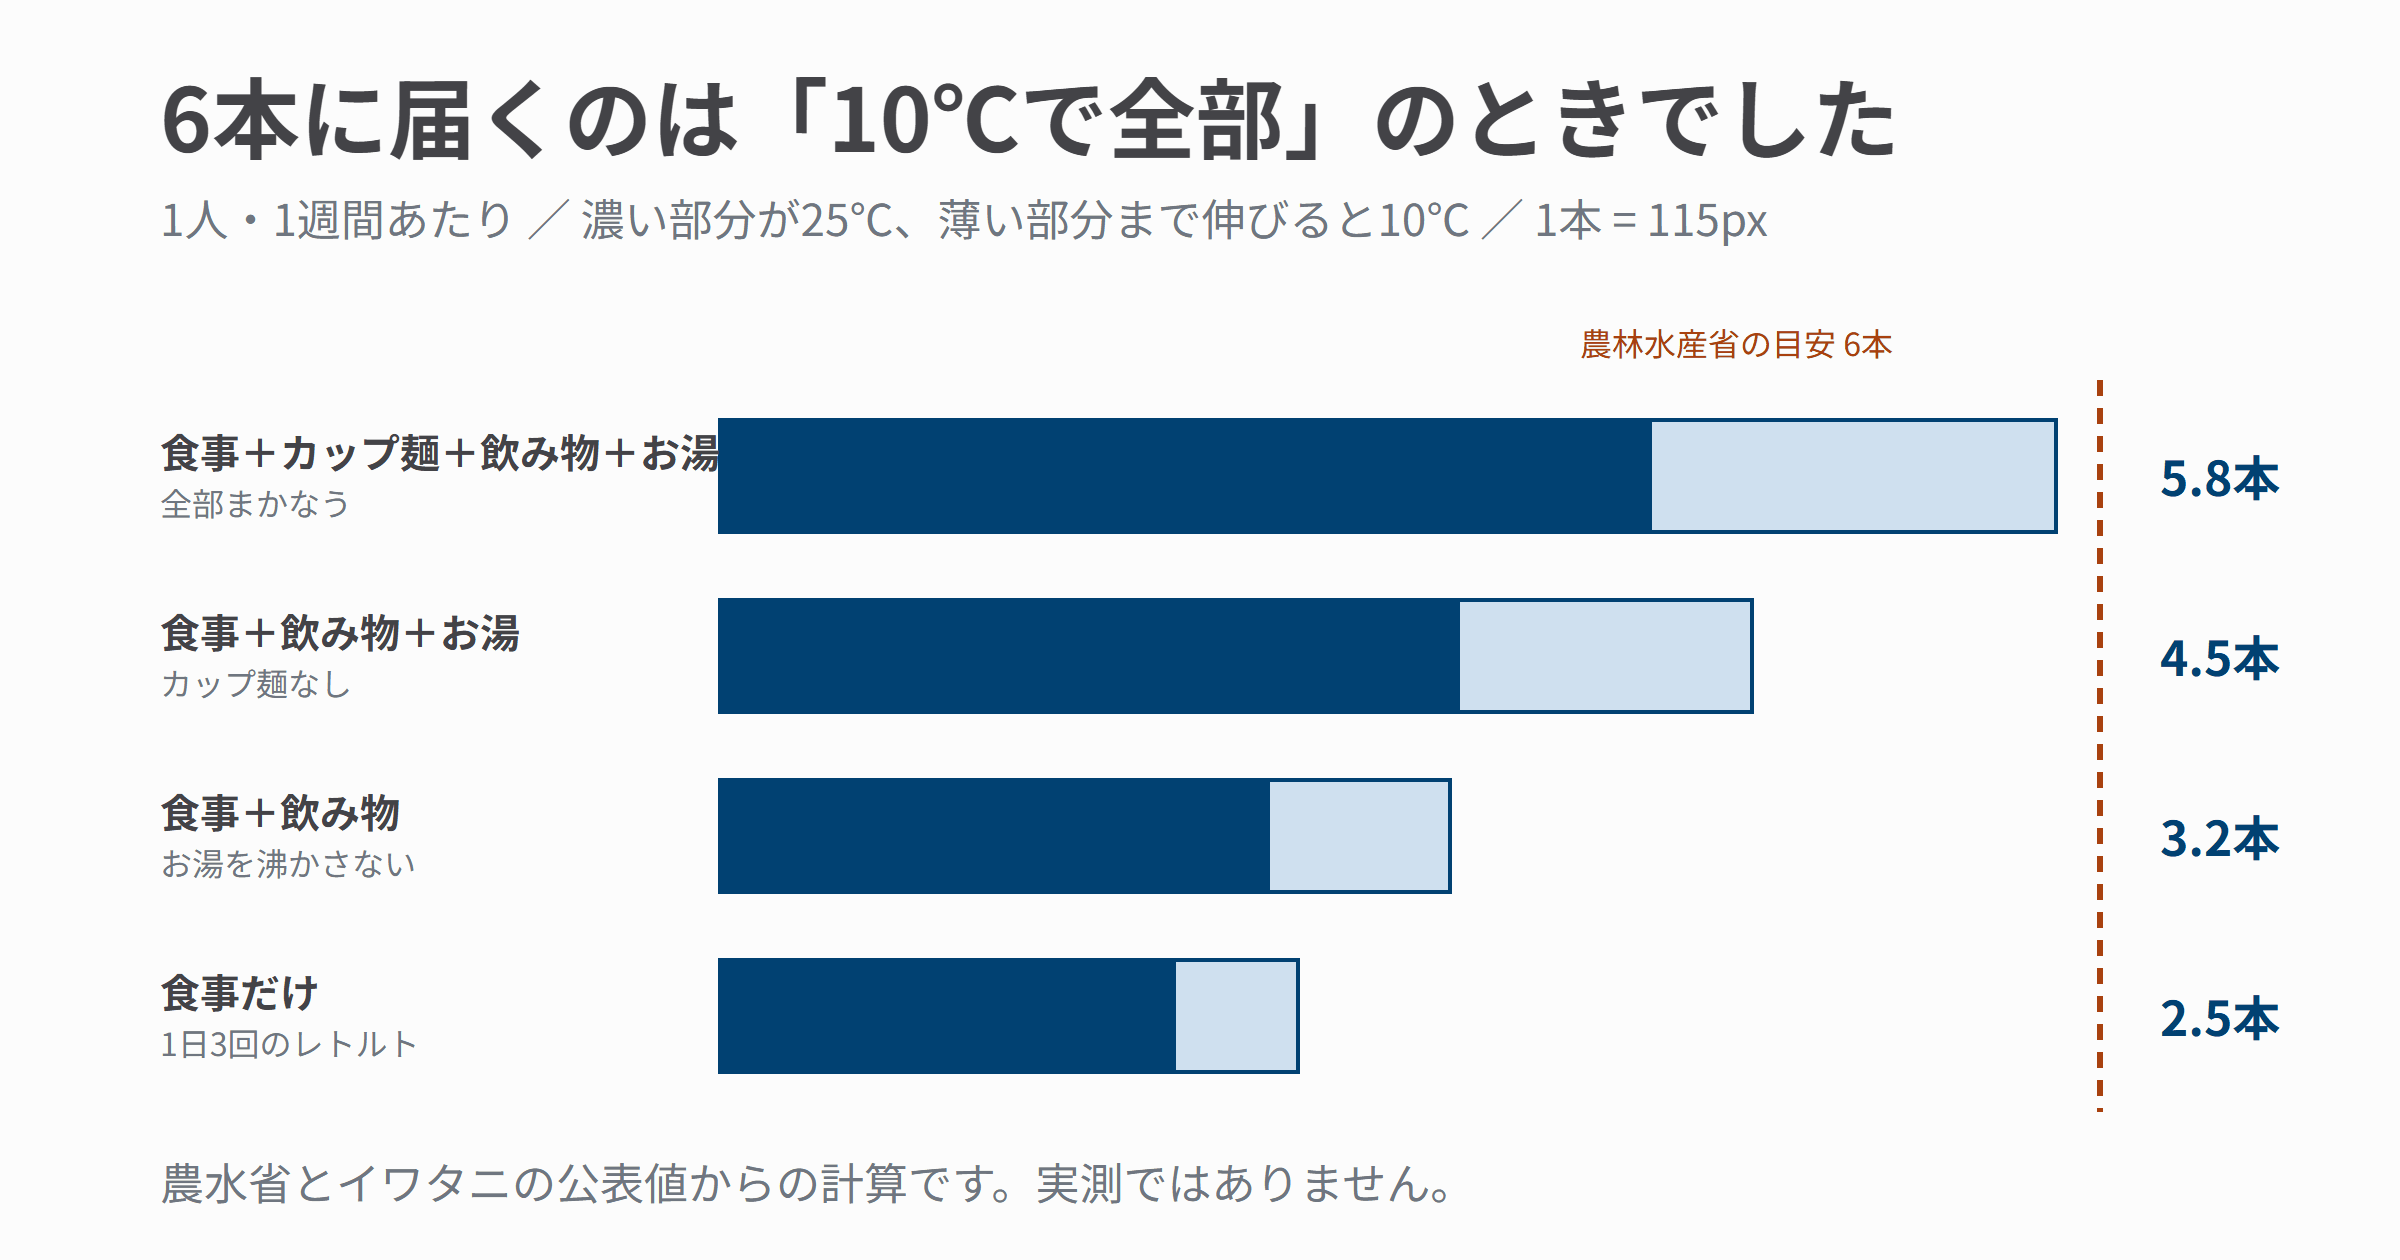
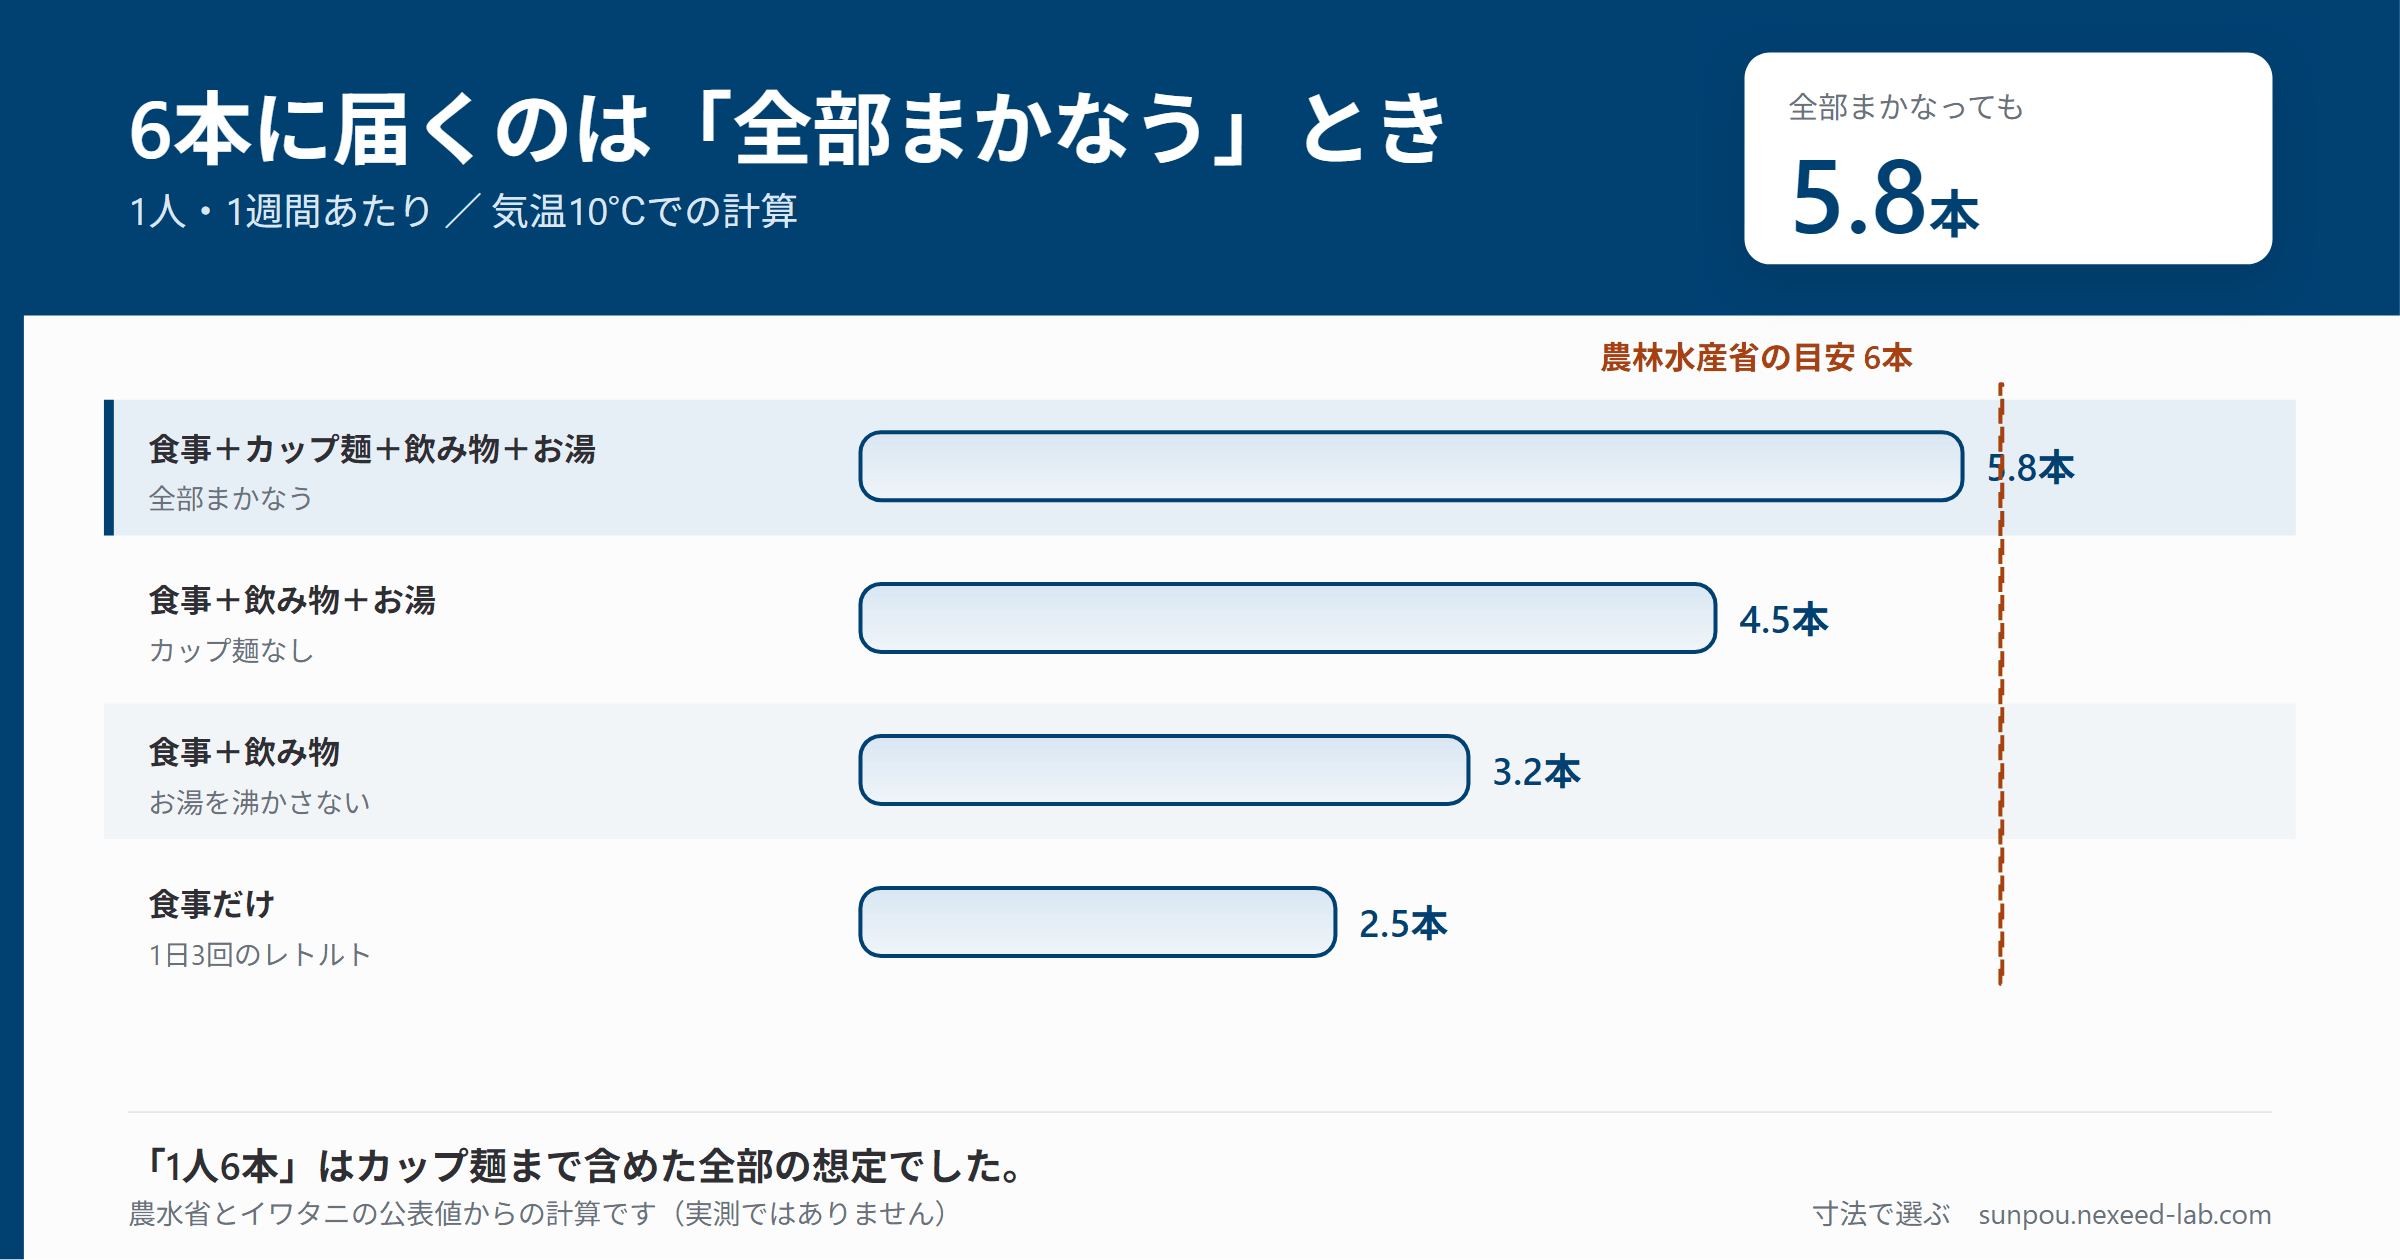
図版のパワポ移行：カセットコンロ4枚を追加（31枚中14枚）
konro-erabikata で軸を30cmから描いていたのを0からに直した。
途中で軸を切ると差が誇張される。このサイトは数字の扱いが売りなので、
見栄えより実寸を優先する。

diff --git a/tools/figures/figures.py b/tools/figures/figures.py
@@ -279,6 +279,98 @@ def coolerbox_daiwa_shimano_eyecatch(f):
     f.footer("名前が違うだけで、中身は同じ物差しです。",
              "両社の公表資料で確認しました（実測ではありません）")
 
+# ---------------------------------------------------------------- カセットコンロ
+
+def konro_erabikata_eyecatch(f):
+    """「9号まで」を名乗っても本体幅は32.8〜39.1cm。土鍋との差が機種で違う。"""
+    f.header("同じ「9号まで」でも幅が違う",
+             "横棒は本体幅。破線は9号土鍋でいちばん幅のある墨貫入（32.5cm）",
+             key="6.6", key_label="土鍋との差は最大", key_unit="cm")
+
+    data = [("スリム", 32.8), ("スマート／ウィンドシールド", 33.4),
+            ("達人スリムV／達人スリムβ", 33.5), ("BO", 33.7),
+            ("アモルフォプレミアム", 35.5), ("雅SLIM", 35.85), ("極", 39.1)]
+    # ⚠ **0 から描く。** 途中で軸を切ると差が誇張される（このサイトは数字の扱いが売り）
+    x0, sc, top, rh = 330, 17.2, 176, 50
+    ys = f.rows(len(data), top=top, rh=rh, highlight=len(data) - 1)
+    nabe = x0 + 32.5 * sc
+    for (name, w), y in zip(data, ys):
+        f.bar(x0, y + 8, w * sc, 26, PALE2, PALE, NAVY, 2, radius=0.30)
+        f.text(74, y + 8, 250, 26, name, 15, INK, bold=True)
+        f.text(x0 + w * sc + 12, y + 8, 110, 26, f"{w}cm", 16, NAVY, bold=True)
+    f.ghost(nabe, top - 6, 1, len(data) * rh - 6, WARN)
+    f.text(nabe - 130, top + len(data) * rh - 2, 260, 24, "9号土鍋 32.5cm", 15, WARN, bold=True)
+
+    f.footer("「9号まで」は号数の目安で、寸法ではありません。")
+
+
+def konro_jikan_eyecatch(f):
+    """ボンベ1本の連続燃焼時間は55〜78分。割り算では出ない。"""
+    f.header("ボンベ1本は55〜78分",
+             "濃い部分が「250g ÷ ガス消費量」。薄い部分まで伸びると公表の連続燃焼時間",
+             key="78", key_label="いちばん長くて", key_unit="分")
+
+    data = [("BO", "286g/h ／ ＋3分", 55), ("スマート／ウィンドシールド", "254g/h ／ ＋19分", 78),
+            ("達人スリムV", "245g/h ／ ＋7分", 68), ("スリム ほか2機種", "236g/h ／ ＋6分", 70),
+            ("エコプレミアムIII", "210g/h ／ ＋1分", 72), ("ミニ", "135g/h ／ ＋1分", 112)]
+    x0, sc, top, rh = 420, 5.6, 176, 58
+    hot = max(range(len(data)), key=lambda i: data[i][2])
+    ys = f.rows(len(data), top=top, rh=rh, highlight=hot)
+    for (name, spec, mins), y in zip(data, ys):
+        f.bar(x0, y + 10, mins * sc, 28, PALE2, PALE, NAVY, 2, radius=0.30)
+        f.text(74, y + 4, 330, 24, name, 16, INK, bold=True)
+        f.text(74, y + 28, 330, 22, spec, 14, MUTE)
+        f.text(x0 + mins * sc + 12, y + 10, 100, 28, f"{mins}分", 18, NAVY, bold=True)
+
+    f.footer("火力が強い機種ほど、早く使い切ります。")
+
+
+def konro_bombe_eyecatch(f):
+    """農水省の「1人6本」に届くのは、10℃で全部まかなうときだけ。"""
+    f.header("6本に届くのは「全部まかなう」とき",
+             "1人・1週間あたり ／ 気温10℃での計算",
+             key="5.8", key_label="全部まかなっても", key_unit="本")
+
+    data = [("食事＋カップ麺＋飲み物＋お湯", "全部まかなう", 5.8),
+            ("食事＋飲み物＋お湯", "カップ麺なし", 4.5),
+            ("食事＋飲み物", "お湯を沸かさない", 3.2),
+            ("食事だけ", "1日3回のレトルト", 2.5)]
+    x0, sc, top, rh = 430, 95.0, 200, 76
+    ys = f.rows(len(data), top=top, rh=rh, highlight=0)
+    goal = x0 + 6 * sc
+    for (name, note, n), y in zip(data, ys):
+        f.bar(x0, y + 16, n * sc, 34, PALE2, PALE, NAVY, 2, radius=0.30)
+        f.text(74, y + 12, 350, 24, name, 16, INK, bold=True)
+        f.text(74, y + 38, 350, 22, note, 14, MUTE)
+        f.text(x0 + n * sc + 12, y + 16, 100, 34, f"{n}本", 19, NAVY, bold=True)
+    f.ghost(goal, top - 8, 1, len(data) * rh - 4, WARN)
+    f.text(goal - 200, top - 34, 260, 24, "農林水産省の目安 6本", 16, WARN, bold=True)
+
+    f.footer("「1人6本」はカップ麺まで含めた全部の想定でした。",
+             "農水省とイワタニの公表値からの計算です（実測ではありません）")
+
+
+def konro_donabe_eyecatch(f):
+    """号数は幅を決めていない。同じ号数でもシリーズで幅が違う。"""
+    f.header("土鍋の「号数」は幅を決めていません",
+             "銀峯陶器の公表寸法。同じ号数でもシリーズで幅が違う（幅は取手込み）",
+             key="33.4", key_label="コンロの本体幅", key_unit="cm")
+
+    data = [("6号", 21, 22), ("7号", 24, 26.5), ("8号", 27, 29.5),
+            ("9号", 31, 32.5), ("10号", 34, 36)]
+    x0, sc, top, rh = 300, 22.0, 186, 66
+    base = 18.0
+    ys = f.rows(len(data), top=top, rh=rh, highlight=3)
+    konro = x0 + (33.4 - base) * sc
+    for (name, lo, hi), y in zip(data, ys):
+        f.bar(x0 + (lo - base) * sc, y + 14, (hi - lo) * sc, 30, PALE2, PALE, NAVY, 2, radius=0.30)
+        f.text(74, y + 14, 180, 30, name, 20, INK, bold=True)
+        f.text(x0 + (hi - base) * sc + 14, y + 14, 180, 30, f"{lo}〜{hi}cm", 17, NAVY, bold=True)
+    f.ghost(konro, top - 8, 1, len(data) * rh - 8, WARN)
+    f.text(konro - 60, top - 34, 420, 24, "カセットコンロの本体幅 33.4cm", 16, WARN, bold=True)
+
+    f.footer("同じ号数でも、シリーズで幅が違います。")
+
 ORDER = [
     "kyatatsu-secchi-eyecatch",
     "kyatatsu-secchi",
@@ -290,6 +382,10 @@ ORDER = [
     "coolerbox-horeizai-eyecatch",
     "horeizai-maisuu-eyecatch",
     "coolerbox-daiwa-shimano-eyecatch",
+    "konro-erabikata-eyecatch",
+    "konro-jikan-eyecatch",
+    "konro-bombe-eyecatch",
+    "konro-donabe-eyecatch",
 ]
 
 FIGURES = {
@@ -303,4 +399,8 @@ FIGURES = {
     "coolerbox-horeizai-eyecatch": coolerbox_horeizai_eyecatch,
     "horeizai-maisuu-eyecatch": horeizai_maisuu_eyecatch,
     "coolerbox-daiwa-shimano-eyecatch": coolerbox_daiwa_shimano_eyecatch,
+    "konro-erabikata-eyecatch": konro_erabikata_eyecatch,
+    "konro-jikan-eyecatch": konro_jikan_eyecatch,
+    "konro-bombe-eyecatch": konro_bombe_eyecatch,
+    "konro-donabe-eyecatch": konro_donabe_eyecatch,
 }
